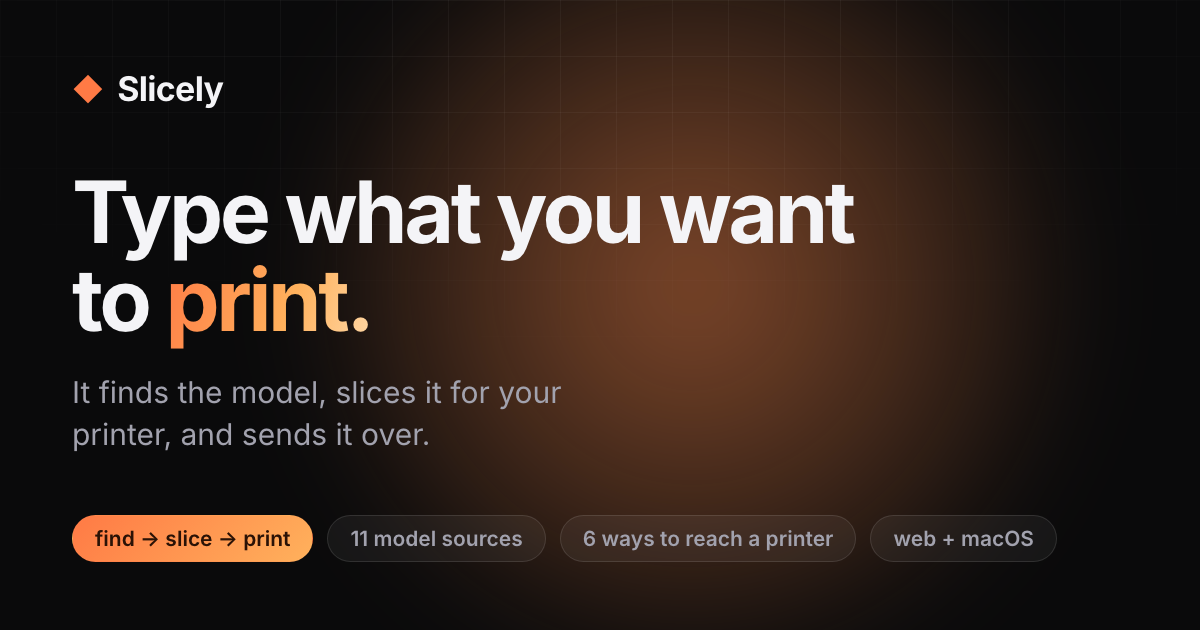
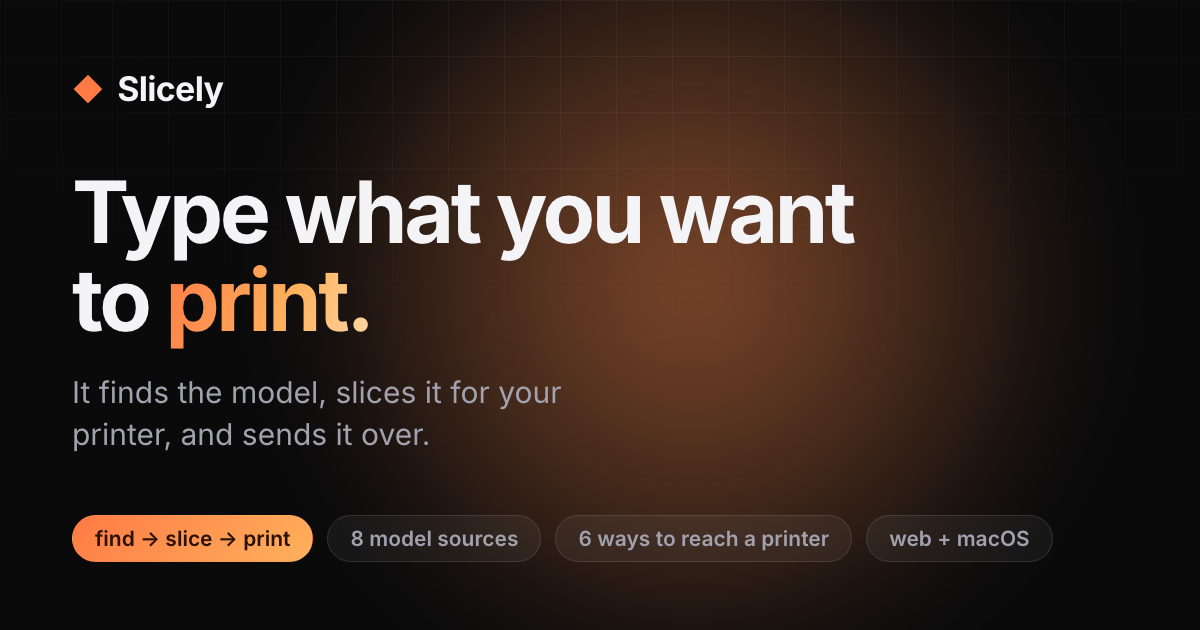
slicely-v3: stop overclaiming the sources, and make the links real links
Two fixes from review, plus four small ones taken in the same pass.

The sources card listed all eleven providers by name as though a search hit all
eleven. It does not: Thangs, Yeggi and STLFinder sit behind bot protection that
blocks honestly-identified requests, return nothing, and ship switched off
behind SLICELY_ENABLE_SCRAPERS. The card now names the eight that actually
answer and says plainly what happened to the other three.

That correction could not stay in one card. The hero lead, the meta
description, both social descriptions and the share card all said "11", so
fixing only the card would have left the page contradicting itself two screens
apart — a stranger reading "eight sources at once" under a hero promising
eleven learns something worse than the wrong number. All of them now say eight,
and og.png is regenerated to match. This does change the hero line the task
brief specified verbatim; the brief was written before anyone checked the
number against the README, and an accurate page seemed the thing the brief
actually wanted.

The CTAs were <a> elements with no href until main.js ran, which made them
inert without JavaScript and — the part that matters more — skipped by the tab
key, so a keyboard user could not reach "Open the web app" at all. Each link
now ships its real URL in the markup and keeps data-href as a runtime override.
The cost is one duplicated URL, APP_URL, in two files; main.js warns in the
[…]

Changed region(s): [[0.4625, 0.8444, 0.7092, 0.8746], [0.2775, 0.8444, 0.4317, 0.8746], [0.74, 0.8444, 0.8633, 0.8746]]

diff --git a/site/index.html b/site/index.html
@@ -4,7 +4,7 @@
   <meta charset="UTF-8" />
   <meta name="viewport" content="width=device-width, initial-scale=1.0" />
   <title>Slicely — type what you want to print</title>
-  <meta name="description" content="Slicely finds 3D models across 11 sites, works out how to slice them for your printer, and sends them over — web or macOS, on your own Anthropic key." />
+  <meta name="description" content="Slicely finds 3D models across eight model sites, works out how to slice them for your printer, and sends them over — web or macOS, on your own Anthropic key." />
 
   <link rel="canonical" href="https://slicely.app/" />
   <meta name="theme-color" content="#0a0a0b" />
@@ -13,7 +13,7 @@
   <meta property="og:type" content="website" />
   <meta property="og:site_name" content="Slicely" />
   <meta property="og:title" content="Slicely — type what you want to print" />
-  <meta property="og:description" content="Slicely finds 3D models across 11 sites, works out how to slice them for your printer, and sends them over. No CAD, no settings rabbit hole." />
+  <meta property="og:description" content="Slicely finds 3D models across eight model sites, works out how to slice them for your printer, and sends them over. No CAD, no settings rabbit hole." />
   <meta property="og:url" content="https://slicely.app/" />
   <meta property="og:image" content="https://slicely.app/og.png" />
   <meta property="og:image:width" content="1200" />
@@ -23,7 +23,7 @@
   <!-- Twitter -->
   <meta name="twitter:card" content="summary_large_image" />
   <meta name="twitter:title" content="Slicely — type what you want to print" />
-  <meta name="twitter:description" content="Slicely finds 3D models across 11 sites, works out how to slice them for your printer, and sends them over. No CAD, no settings rabbit hole." />
+  <meta name="twitter:description" content="Slicely finds 3D models across eight model sites, works out how to slice them for your printer, and sends them over. No CAD, no settings rabbit hole." />
   <meta name="twitter:image" content="https://slicely.app/og.png" />
 
   <link rel="icon" href="favicon.svg" />
@@ -51,19 +51,19 @@
       <span class="brand-mark" aria-hidden="true">◆</span>
       <span class="brand-name">Slicely</span>
     </a>
-    <nav class="nav-links">
+    <nav class="nav-links" aria-label="Main">
       <a href="#how">How it works</a>
       <a href="#features">Features</a>
       <a href="#web-or-mac">Web or Mac</a>
-      <a data-href="REPO_URL" target="_blank" rel="noopener">GitHub</a>
+      <a href="https://github.com/ishmael07/slicely" data-href="REPO_URL" target="_blank" rel="noopener">GitHub</a>
     </nav>
-    <a class="btn btn-primary btn-sm" data-href="APP_URL">Open the web app</a>
+    <a class="btn btn-primary btn-sm" href="https://app.slicely.example" data-href="APP_URL">Open the web app</a>
   </header>
 
   <main id="top">
     <!-- hero -->
     <section class="hero">
-      <div class="hero-copy">
+      <div>
         <div class="eyebrow reveal">
           <span class="dot"></span> AI for 3D printing · bring your own Claude key
         </div>
@@ -71,15 +71,15 @@
           Type what you want to <span class="grad">print.</span>
         </h1>
         <p class="lead reveal" data-delay="2">
-          Slicely finds it across 11 model sites, works out how to slice it for your
+          Slicely finds it across eight model sites, works out how to slice it for your
           printer, and sends it over. No CAD, no settings rabbit hole.
         </p>
         <div class="hero-cta reveal" data-delay="3">
-          <a class="btn btn-primary" data-href="APP_URL">
+          <a class="btn btn-primary" href="https://app.slicely.example" data-href="APP_URL">
             Open the web app <span class="arrow">→</span>
           </a>
           <span class="cta-stack">
-            <a class="btn btn-ghost" data-href="DOWNLOAD_URL">Download for Mac</a>
+            <a class="btn btn-ghost" href="https://github.com/ishmael07/slicely/releases/latest" data-href="DOWNLOAD_URL">Download for Mac</a>
             <span class="cta-micro">macOS 13+ · Apple silicon &amp; Intel · unsigned build for now: right-click → Open</span>
           </span>
         </div>
@@ -160,8 +160,8 @@
       <p class="section-sub reveal" data-delay="1">Find, slice, send. Slicely is not a CAD tool — it works with models that already exist, plus whatever you bring it.</p>
       <div class="feature-grid">
         <article class="card reveal">
-          <h3>11 sources at once</h3>
-          <p>One query across Thingiverse, Printables, MyMiniFactory, NIH 3D, Smithsonian, NASA, GitHub, MakerWorld, Thangs, Yeggi and STLFinder, ranked together — and one source being down never blanks your results.</p>
+          <h3>Eight sources at once</h3>
+          <p>One query across Thingiverse, Printables, MyMiniFactory, NIH 3D, Smithsonian, NASA, GitHub and MakerWorld, ranked together — and one of them being down never blanks your results. Three more (Thangs, Yeggi, STLFinder) sit behind bot protection that blocks honestly-identified requests, so they ship switched off.</p>
         </article>
         <article class="card reveal" data-delay="1">
           <h3>Paste any link</h3>
@@ -274,8 +274,8 @@
         </div>
       </div>
       <div class="final-cta reveal" data-delay="4">
-        <a class="btn btn-primary btn-lg" data-href="APP_URL">Open the web app <span class="arrow">→</span></a>
-        <a class="btn btn-ghost btn-lg" data-href="DOWNLOAD_URL">Download for Mac</a>
+        <a class="btn btn-primary btn-lg" href="https://app.slicely.example" data-href="APP_URL">Open the web app <span class="arrow">→</span></a>
+        <a class="btn btn-ghost btn-lg" href="https://github.com/ishmael07/slicely/releases/latest" data-href="DOWNLOAD_URL">Download for Mac</a>
       </div>
     </section>
   </main>
@@ -283,12 +283,12 @@
   <footer class="footer">
     <div class="footer-top">
       <span class="brand"><span class="brand-mark" aria-hidden="true">◆</span> Slicely</span>
-      <nav class="footer-links">
+      <nav class="footer-links" aria-label="Footer">
         <a href="terms.html">Terms</a>
         <span aria-hidden="true">·</span>
         <a href="privacy.html">Privacy</a>
         <span aria-hidden="true">·</span>
-        <a data-href="REPO_URL" target="_blank" rel="noopener">Source (GitHub)</a>
+        <a href="https://github.com/ishmael07/slicely" data-href="REPO_URL" target="_blank" rel="noopener">Source (GitHub)</a>
         <span aria-hidden="true">·</span>
         <span>MIT</span>
         <span aria-hidden="true">·</span>

diff --git a/site/main.js b/site/main.js
@@ -4,21 +4,32 @@
   'use strict';
 
   // ---- links -----------------------------------------------------------------
-  // Every CTA carries data-href="APP_URL" (or DOWNLOAD_URL / REPO_URL) instead of a
-  // literal URL, so config.js is the single place a URL is written down. A key with
-  // no value in config.js leaves the element inert and says so in the console, which
-  // is louder than a link that silently goes nowhere.
+  // Every CTA ships a real href in the HTML and ALSO carries data-href="APP_URL"
+  // (or DOWNLOAD_URL / REPO_URL). The href is what makes the link work, focusable
+  // and keyboard-reachable with no JavaScript at all; config.js is what the owner
+  // edits, and this loop applies it over the top.
+  //
+  // Two copies of a URL can disagree. Silently preferring config.js would leave a
+  // stale URL sitting in the markup for the next reader to take as truth, so a
+  // divergence is reported rather than quietly papered over.
   const cfg = window.SLICELY_SITE || {};
 
   document.querySelectorAll('[data-href]').forEach((el) => {
     const key = el.getAttribute('data-href');
     const url = cfg[key];
-    if (typeof url === 'string' && url) {
-      el.setAttribute('href', url);
-    } else {
-      el.setAttribute('aria-disabled', 'true');
-      console.warn(`[Slicely site] config.js has no ${key} — this link is inert.`);
+    const inMarkup = el.getAttribute('href');
+
+    if (typeof url !== 'string' || !url) {
+      console.warn(`[Slicely site] config.js has no ${key} — keeping the href in the HTML (${inMarkup}).`);
+      return;
     }
+    if (inMarkup && inMarkup !== url) {
+      console.warn(
+        `[Slicely site] ${key} is "${url}" in config.js but "${inMarkup}" in the HTML — ` +
+          'using config.js. Update the markup to match.'
+      );
+    }
+    el.setAttribute('href', url);
   });
 
   // ---- scroll reveal ---------------------------------------------------------

diff --git a/site/config.js b/site/config.js
@@ -1,11 +1,13 @@
-/* Slicely landing page — the only place URLs live.
+/* Slicely landing page — the URLs the owner edits.
  *
- * Every link in the page carries a data-href="<KEY>" attribute; main.js reads
- * this object on load and fills the real href in. Change a URL here and it
- * changes everywhere, including terms.html / privacy.html footers.
+ * Every CTA in index.html carries BOTH a real href in the markup and a
+ * data-href="<KEY>"; main.js reads this object on load and applies it over the
+ * top. The href is what makes the link work, focusable and keyboard-reachable
+ * with no JavaScript at all; this file is what you edit. Keep the two in step —
+ * main.js warns in the console when they disagree, naming both values.
  *
  * Before launch, the owner fills APP_URL in — it is a placeholder until the Fly
- * app exists.
+ * app exists. Change it here AND in the href attributes in index.html.
  *
  * CONTACT_EMAIL has no consumer on this page and is not meant to grow one: the
  * only place the site names an address is terms.html and privacy.html, and those

diff --git a/site/styles.css b/site/styles.css
@@ -62,6 +62,16 @@ body {
 
 a { color: inherit; text-decoration: none; }
 
+/* Keyboard focus has to be visible against a dark canvas, and the browser default
+   mostly is not. :focus-visible rather than :focus, so a mouse click on a button
+   does not leave a ring sitting behind it. */
+a:focus-visible,
+.btn:focus-visible {
+  outline: 2px solid var(--accent);
+  outline-offset: 2px;
+  border-radius: 4px;
+}
+
 code {
   font-family: var(--mono);
   font-size: 0.9em;
@@ -76,8 +86,6 @@ code {
   overflow: hidden; clip-path: inset(50%); white-space: nowrap;
 }
 
-/* An inert CTA (config.js has no URL yet) should not pretend to be clickable. */
-[aria-disabled='true'] { cursor: not-allowed; opacity: 0.75; }
 
 /* ---------- ambient background ---------- */
 .bg { position: fixed; inset: 0; z-index: -1; overflow: hidden; }

diff --git a/site/terms.html b/site/terms.html
@@ -37,7 +37,7 @@
       <span class="brand-mark" aria-hidden="true">◆</span>
       <span class="brand-name">Slicely</span>
     </a>
-    <nav class="nav-links">
+    <nav class="nav-links" aria-label="Main">
       <a href="index.html">Home</a>
       <a href="privacy.html">Privacy</a>
     </nav>
@@ -323,7 +323,7 @@
   <footer class="footer">
     <div class="footer-top">
       <span class="brand"><span class="brand-mark" aria-hidden="true">◆</span> Slicely</span>
-      <nav class="footer-links">
+      <nav class="footer-links" aria-label="Footer">
         <a href="index.html">Home</a>
         <span aria-hidden="true">·</span>
         <a href="terms.html">Terms</a>

diff --git a/site/privacy.html b/site/privacy.html
@@ -37,7 +37,7 @@
       <span class="brand-mark" aria-hidden="true">◆</span>
       <span class="brand-name">Slicely</span>
     </a>
-    <nav class="nav-links">
+    <nav class="nav-links" aria-label="Main">
       <a href="index.html">Home</a>
       <a href="terms.html">Terms</a>
     </nav>
@@ -184,7 +184,7 @@
   <footer class="footer">
     <div class="footer-top">
       <span class="brand"><span class="brand-mark" aria-hidden="true">◆</span> Slicely</span>
-      <nav class="footer-links">
+      <nav class="footer-links" aria-label="Footer">
         <a href="index.html">Home</a>
         <span aria-hidden="true">·</span>
         <a href="terms.html">Terms</a>

diff --git a/site/og.html b/site/og.html
@@ -2,6 +2,7 @@
 <html lang="en">
 <head>
   <meta charset="UTF-8" />
+  <meta name="robots" content="noindex" />
   <title>Slicely — share card source</title>
   <!--
     The source for og.png, rendered to a 1200x630 PNG by scripts/make-og.mjs.
@@ -95,7 +96,7 @@
 
   <div class="layer foot">
     <span class="chip hot">find → slice → print</span>
-    <span class="chip">11 model sources</span>
+    <span class="chip">8 model sources</span>
     <span class="chip">6 ways to reach a printer</span>
     <span class="chip">web + macOS</span>
   </div>

diff --git a/site/README.md b/site/README.md
@@ -34,14 +34,17 @@ pages' relative links behave more like production over HTTP.
 
 ## Before you deploy — the checklist
 
-1. **`config.js`** — fill in `APP_URL` (the deployed web app; it ships as the placeholder
-   `https://app.slicely.example`) and `CONTACT_EMAIL`. Every CTA and footer link in
-   `index.html` carries `data-href="APP_URL"` rather than a literal URL, and `main.js`
-   fills the real `href` in on load, so this file is the only place `index.html` writes a
-   URL down. A key with no value leaves its link inert and logs a warning — visible, not
-   silent. The two legal pages deliberately run no JavaScript at all (see below), so their
-   footers carry the repository URL literally; `{{CONTACT_EMAIL}}` inside them is a
-   placeholder the lawyer review replaces, not something `config.js` fills in.
+1. **`APP_URL`** — the deployed web app, which ships as the placeholder
+   `https://app.slicely.example`. It lives in **two** places and both must change:
+   `config.js`, and the `href` attributes in `index.html`. Every CTA carries both, on
+   purpose: the `href` is what makes the link work and be keyboard-focusable with no
+   JavaScript, and `config.js` is what `main.js` applies over the top at runtime. If the
+   two ever disagree, `main.js` warns in the console naming both values, so a half-done
+   edit is loud rather than silent — but do the edit properly rather than relying on that.
+
+   The two legal pages deliberately run no JavaScript at all (see below), so their footers
+   carry the repository URL literally, and `{{CONTACT_EMAIL}}` inside them is a placeholder
+   the lawyer review replaces rather than something `config.js` fills in.
 2. **The domain.** The canonical URL is `https://slicely.app` and, because crawlers must
    see it in the served HTML rather than after JavaScript runs, it is written out in five
    places. Change all five together:
@@ -91,15 +94,14 @@ pyftsubset web/Inter-Regular.woff2 --flavor=woff2 \
 
 ## With JavaScript off
 
-The page is fully readable: an inline script in `<head>` marks the document as scripted,
-and the scroll reveal's hidden state is gated on that, so without JavaScript nothing starts
-hidden. Everything renders — copy, comparison table, Terms, Privacy, the source link.
+The page works completely. An inline script in `<head>` marks the document as scripted and
+the scroll reveal's hidden state is gated on that, so without JavaScript nothing starts
+hidden and everything renders. Every link — the CTAs included — ships a real `href` in the
+markup, so they are clickable, keyboard-focusable and in the tab order whether or not
+`main.js` ever runs; `data-href` only overrides them at runtime.
 
-The one thing that does not work is the two CTAs. "Open the web app" and "Download for Mac"
-get their `href` from `config.js` via `main.js`, so with no JavaScript they are visible but
-inert. That is the deliberate cost of keeping every URL in one file; if it ever matters
-more than the duplication does, put the real `href` in the HTML and let `data-href`
-override it.
+The cost of that is one duplicated URL, `APP_URL`, which is why it is item 1 of the deploy
+checklist above and why `main.js` warns when the two copies disagree.
 
 ## Motion
 
